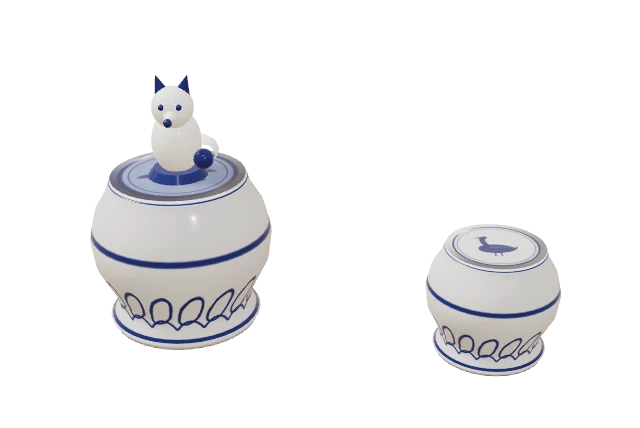
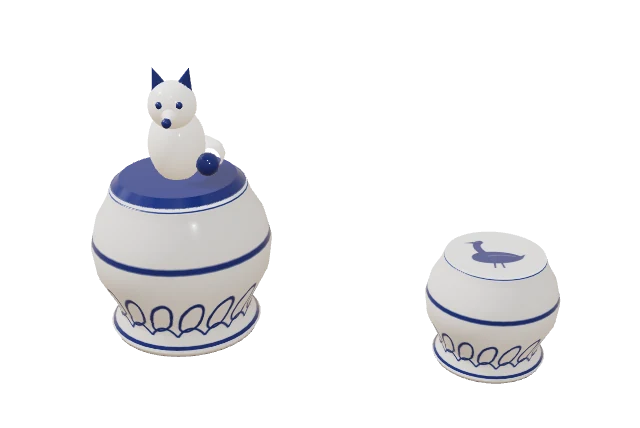
3D/2Dの駒をひとつの箱に（全ゲーム点検）、狐とガチョウ：残り手数の数字の色、デルフト駒の天面を見やすく
Claude-Session: https://claude.ai/code/session_01EiWRAZQof2qofnKntpRWhP

Changed region(s): [[0.6562, 0.5164, 0.875, 0.9112], [0.125, 0.4556, 0.4375, 0.8505], [0.1562, 0.1519, 0.4062, 0.5164]]

diff --git a/atlas/lazy.js b/atlas/lazy.js
@@ -5,7 +5,7 @@
      AtlasLazy.has3D(id) / hasPlay(id) / hasRules(id) — known before loading; AtlasLazy.loaded(id) */
 (function () {
 'use strict';
-const G = {"reversi": ["models/reversi.js?v=1", "games/reversi.js?v=57", "rules/reversi.js?v=14"], "shogi": ["models/shogi.js?v=102", "games/shogi-play.js?v=50", "games/shogi.js?v=18", "rules/shogi.js?v=21"], "chess": ["models/chess.js?v=23", "games/chess.js?v=23", "rules/chess.js?v=8"], "backgammon": ["models/backgammon.js?v=123", "games/backgammon.js?v=29", "rules/backgammon.js?v=11"], "gomoku": ["models/goban.js?v=17", "games/gomoku.js?v=19", "rules/gomoku.js?v=10"], "go": ["models/goban.js?v=17", "games/go.js?v=18", "rules/go.js?v=7"], "hex": ["models/goban.js?v=17", "models/hex.js?v=3", "games/hex.js?v=9", "rules/hex.js?v=7"], "tafl": ["games/tafl.js?v=20", "rules/tafl.js?v=8"], "xiangqi": ["models/xiangqi.js?v=8", "games/xiangqi.js?v=18", "rules/xiangqi.js?v=7"], "janggi": ["models/xiangqi.js?v=8", "models/janggi.js?v=3", "games/janggi.js?v=10", "rules/janggi.js?v=3"], "checkers": ["models/checkers.js?v=23", "games/checkers.js?v=17", "rules/checkers.js?v=11"], "ugolki": ["models/checkers.js?v=23", "models/ugolki.js?v=4", "games/ugolki.js?v=17", "rules/ugolki.js?v=11"], "morris": ["models/morris.js?v=9", "games/morris-pieces.js?v=5", "games/morris.js?v=16", "rules/morris.js?v=8"], "connect4": ["models/connect4.js?v=6", "games/connect4-tiles.js?v=3", "games/connect4.js?v=10", "rules/connect4.js?v=3"], "mancala": ["models/mancala.js?v=6", "games/mancala.js?v=16", "rules/mancala.js?v=5"], "dots": ["models/dots.js?v=5", "games/dots.js?v=15", "rules/dots.js?v=3"], "ur": ["models/ur-dice.js?v=2", "models/ur.js?v=5", "games/ur-kit.js?v=15", "games/ur.js?v=15", "rules/ur.js?v=18"], "fanorona": ["models/fanorona.js?v=4", "games/fanorona.js?v=9", "rules/fanorona.js?v=8"], "konane": ["models/konane.js?v=7", "games/konane.js?v=18", "rules/konane.js?v=7"], "latrunculi": ["models/latrunculi.js?v=1", "games/latrunculi.js?v=4", "rules/latrunculi.js?v=3"], "foxgeese": ["models/foxgeese.js?v=5", "games/foxgeese.js?v=17", "rules/foxgeese.js?v=13"], "amazons": ["models/amazons.js?v=7", "games/amazons.js?v=17", "rules/amazons.js?v=9"], "senet": ["models/ur-dice.js?v=2", "models/senet.js?v=10", "games/senet-kit.js?v=5", "games/senet.js?v=20", "rules/senet.js?v=10"], "agon": ["models/agon.js?v=4", "games/agon.js?v=16", "rules/agon.js?v=6"], "alquerque": ["models/alquerque.js?v=3", "games/fanorona.js?v=9", "rules/alquerque.js?v=6"], "ludo": ["../ludo/engine.js?v=4", "../ludo/house.js?v=7", "../ludo/board2d.js?v=7", "../ludo/board-art.js?v=3", "models/ludo.js?v=10", "games/ludo.js?v=30", "rules/ludo.js?v=4"], "carrom": ["../carrom/engine.js?v=8", "models/carrom.js?v=18", "games/carrom.js?v=46", "rules/carrom.js?v=9", "../shared/onlinesec.js?v=2l14as1sh1", "online3d.js?v=2"], "crokinole": ["../carrom/engine.js?v=8", "games/carrom.js?v=46", "../crokinole/engine.js?v=7", "models/crokinole.js?v=13", "games/crokinole.js?v=24", "rules/crokinole.js?v=5", "../shared/onlinesec.js?v=2l14as1sh1", "online3d.js?v=2"], "hockey": ["../hockey/engine.js?v=19", "models/hockey.js?v=8", "games/hockey.js?v=41", "rules/hockey.js?v=8"], "botao": ["../carrom/engine.js?v=8", "games/carrom.js?v=46", "../botao/engine.js?v=16", "models/botao.js?v=11", "games/botao-i18n.js?v=16", "games/botao.js?v=36", "rules/botao.js?v=10", "../shared/onlinesec.js?v=2l14as1sh1", "online3d.js?v=2"], "shanghai": ["games/shanghai-core.js?v=2", "games/shanghai-scenes.js?v=2", "games/shanghai-zodiac.js?v=6", "games/shanghai-i18n.js?v=17", "models/shanghai.js?v=19", "games/shanghai.js?v=44", "rules/shanghai-i18n.js?v=1", "rules/shanghai.js?v=1"], "patolli": ["models/patolli.js?v=1", "games/patolli-kit.js?v=2", "games/patolli.js?v=4", "rules/patolli.js?v=3"], "peg": ["../peg/engine.js?v=2", "../peg/i18n.js?v=11", "models/peg.js?v=23", "games/peg.js?v=16", "rules/peg.js?v=4"], "hitblow": ["../hitblow/engine.js?v=6", "models/hitblow.js?v=27", "games/hitblow.js?v=19", "rules/hitblow.js?v=4"]};
+const G = {"reversi": ["models/reversi.js?v=1", "games/reversi.js?v=57", "rules/reversi.js?v=14"], "shogi": ["models/shogi.js?v=102", "games/shogi-play.js?v=50", "games/shogi.js?v=18", "rules/shogi.js?v=21"], "chess": ["models/chess.js?v=23", "games/chess.js?v=23", "rules/chess.js?v=8"], "backgammon": ["models/backgammon.js?v=123", "games/backgammon.js?v=29", "rules/backgammon.js?v=11"], "gomoku": ["models/goban.js?v=17", "games/gomoku.js?v=19", "rules/gomoku.js?v=10"], "go": ["models/goban.js?v=17", "games/go.js?v=18", "rules/go.js?v=7"], "hex": ["models/goban.js?v=17", "models/hex.js?v=3", "games/hex.js?v=9", "rules/hex.js?v=7"], "tafl": ["games/tafl.js?v=20", "rules/tafl.js?v=8"], "xiangqi": ["models/xiangqi.js?v=8", "games/xiangqi.js?v=18", "rules/xiangqi.js?v=7"], "janggi": ["models/xiangqi.js?v=8", "models/janggi.js?v=3", "games/janggi.js?v=10", "rules/janggi.js?v=3"], "checkers": ["models/checkers.js?v=23", "games/checkers.js?v=17", "rules/checkers.js?v=11"], "ugolki": ["models/checkers.js?v=23", "models/ugolki.js?v=4", "games/ugolki.js?v=17", "rules/ugolki.js?v=11"], "morris": ["models/morris.js?v=9", "games/morris-pieces.js?v=5", "games/morris.js?v=16", "rules/morris.js?v=8"], "connect4": ["models/connect4.js?v=6", "games/connect4-tiles.js?v=3", "games/connect4.js?v=10", "rules/connect4.js?v=3"], "mancala": ["models/mancala.js?v=6", "games/mancala.js?v=16", "rules/mancala.js?v=5"], "dots": ["models/dots.js?v=5", "games/dots.js?v=15", "rules/dots.js?v=3"], "ur": ["models/ur-dice.js?v=2", "models/ur.js?v=5", "games/ur-kit.js?v=15", "games/ur.js?v=15", "rules/ur.js?v=18"], "fanorona": ["models/fanorona.js?v=4", "games/fanorona.js?v=9", "rules/fanorona.js?v=8"], "konane": ["models/konane.js?v=7", "games/konane.js?v=18", "rules/konane.js?v=7"], "latrunculi": ["models/latrunculi.js?v=1", "games/latrunculi.js?v=4", "rules/latrunculi.js?v=3"], "foxgeese": ["models/foxgeese.js?v=6", "games/foxgeese.js?v=17", "rules/foxgeese.js?v=13"], "amazons": ["models/amazons.js?v=7", "games/amazons.js?v=17", "rules/amazons.js?v=9"], "senet": ["models/ur-dice.js?v=2", "models/senet.js?v=10", "games/senet-kit.js?v=5", "games/senet.js?v=20", "rules/senet.js?v=10"], "agon": ["models/agon.js?v=4", "games/agon.js?v=16", "rules/agon.js?v=6"], "alquerque": ["models/alquerque.js?v=3", "games/fanorona.js?v=9", "rules/alquerque.js?v=6"], "ludo": ["../ludo/engine.js?v=4", "../ludo/house.js?v=7", "../ludo/board2d.js?v=7", "../ludo/board-art.js?v=3", "models/ludo.js?v=10", "games/ludo.js?v=30", "rules/ludo.js?v=4"], "carrom": ["../carrom/engine.js?v=8", "models/carrom.js?v=18", "games/carrom.js?v=46", "rules/carrom.js?v=9", "../shared/onlinesec.js?v=2l14as1sh1", "online3d.js?v=2"], "crokinole": ["../carrom/engine.js?v=8", "games/carrom.js?v=46", "../crokinole/engine.js?v=7", "models/crokinole.js?v=13", "games/crokinole.js?v=24", "rules/crokinole.js?v=5", "../shared/onlinesec.js?v=2l14as1sh1", "online3d.js?v=2"], "hockey": ["../hockey/engine.js?v=19", "models/hockey.js?v=8", "games/hockey.js?v=41", "rules/hockey.js?v=8"], "botao": ["../carrom/engine.js?v=8", "games/carrom.js?v=46", "../botao/engine.js?v=16", "models/botao.js?v=11", "games/botao-i18n.js?v=16", "games/botao.js?v=36", "rules/botao.js?v=10", "../shared/onlinesec.js?v=2l14as1sh1", "online3d.js?v=2"], "shanghai": ["games/shanghai-core.js?v=2", "games/shanghai-scenes.js?v=2", "games/shanghai-zodiac.js?v=6", "games/shanghai-i18n.js?v=17", "models/shanghai.js?v=19", "games/shanghai.js?v=44", "rules/shanghai-i18n.js?v=1", "rules/shanghai.js?v=1"], "patolli": ["models/patolli.js?v=1", "games/patolli-kit.js?v=2", "games/patolli.js?v=4", "rules/patolli.js?v=3"], "peg": ["../peg/engine.js?v=2", "../peg/i18n.js?v=11", "models/peg.js?v=23", "games/peg.js?v=16", "rules/peg.js?v=4"], "hitblow": ["../hitblow/engine.js?v=6", "models/hitblow.js?v=27", "games/hitblow.js?v=19", "rules/hitblow.js?v=4"]};
 const F = {"patolli": {"t3": true, "play": true, "rules": true}, "reversi": {"t3": true, "play": true, "rules": true}, "shogi": {"t3": true, "play": true, "rules": true}, "chess": {"t3": true, "play": true, "rules": true}, "backgammon": {"t3": true, "play": true, "rules": true}, "gomoku": {"t3": true, "play": true, "rules": true}, "go": {"t3": true, "play": true, "rules": true}, "hex": {"t3": true, "play": true, "rules": true}, "tafl": {"t3": true, "play": true, "rules": true}, "xiangqi": {"t3": true, "play": true, "rules": true}, "janggi": {"t3": true, "play": true, "rules": true}, "checkers": {"t3": true, "play": true, "rules": true}, "ugolki": {"t3": true, "play": true, "rules": true}, "morris": {"t3": true, "play": true, "rules": true}, "connect4": {"t3": true, "play": true, "rules": true}, "mancala": {"t3": true, "play": true, "rules": true}, "dots": {"t3": true, "play": true, "rules": true}, "ur": {"t3": true, "play": true, "rules": true}, "fanorona": {"t3": true, "play": true, "rules": true}, "konane": {"t3": true, "play": true, "rules": true}, "latrunculi": {"t3": true, "play": true, "rules": true}, "foxgeese": {"t3": true, "play": true, "rules": true}, "amazons": {"t3": true, "play": true, "rules": true}, "senet": {"t3": true, "play": true, "rules": true}, "agon": {"t3": true, "play": true, "rules": true}, "alquerque": {"t3": true, "play": true, "rules": true}, "ludo": {"t3": true, "play": true, "rules": true}, "carrom": {"t3": true, "play": true, "rules": true}, "crokinole": {"t3": true, "play": true, "rules": true}, "hockey": {"t3": true, "play": true, "rules": true}, "botao": {"t3": true, "play": true, "rules": true}, "peg": {"t3": true, "play": true, "rules": true}, "shanghai": {"t3": true, "play": true, "rules": true}, "hitblow": {"t3": true, "play": true, "rules": true}};
 const done = new Set(), loading = new Map(), ok = new Set();
 function load(src) {

diff --git a/atlas/skin/foxgeese.js b/atlas/skin/foxgeese.js
@@ -20,7 +20,7 @@
   /* ---------- page: the DOM board's pictures become invisible (taps and marks stay) ---------- */
   const st = document.createElement('style');
   st.textContent = `
-html.atlas-fox #fPieces{display:none!important}   /* 2Dの駒の欄は2D表示のときだけ（チェッカーと同じ。3Dの駒は共通部品が別の箱に出す） */
+html.atlas-fox #fPieces{display:none!important}   /* (the 2D 駒 field: shown again by common.js as the 駒 box with its 3D | 2D switch — .a32-pcown, 2026-11-19) */
 html.atlas-fox .frame{background:transparent!important;box-shadow:none!important;border:0!important}
 html.atlas-fox .frame::before,html.atlas-fox .frame::after,html.atlas-fox .board::after,html.atlas-fox .board::before{display:none!important}
 html.atlas-fox .board{background:none!important;box-shadow:none!important}
@@ -46,7 +46,8 @@ html.atlas-fox .pieces .hov::before,html.atlas-fox .pieces .hov::after,html.atla
 html.atlas-fox .pieces .hov.p1{background:radial-gradient(circle at 40% 35%,#5a6070,#1c2230 60%,#0b0d12)!important}
 html.atlas-fox .pieces .hov.p2{background:radial-gradient(circle at 40% 35%,#fff,#eef0ea 60%,#c4cbc4)!important}
 html.atlas-fox .reserve .rsv-plate{background:rgba(26,14,22,.84)!important;box-shadow:0 0 0 1px rgba(226,170,214,.45),0 2px 6px rgba(0,0,0,.35)!important;color:#f0d9e6!important}
-html.atlas-fox .reserve .rsv-plate .rsv-l b,html.atlas-fox .reserve .rsv-plate .rsv-w:not(.hot) b{color:#fff2dc!important}
+html.atlas-fox .reserve .rsv-plate .rsv-l b,html.atlas-fox .reserve .rsv-plate .rsv-w:not(.hot) b,html.atlas-fox .reserve .rsv-plate.rsv-q:not(.lo) b{color:#fff2dc!important}
+html.atlas-fox .reserve .rsv-plate.rsv-q.lo,html.atlas-fox .reserve .rsv-plate.rsv-q.lo b{color:#ff9a88!important}   /* (the quiet-move clock: the same light figures, red in the last 10 — 2026-11-19) */
 html.atlas-fox .reserve .rsv-plate .rsv-w:not(.hot){color:#f0d9e6!important;background:transparent!important}
 /* a game with clocks (rated / online): the two players one above the other — side by side the clock chip left no room for the names */
 html.atlas-skin.atlas-fox:not(.atlas-2d):not(.atlas-hex):not(.atlas-backgammon) body:not(#_) .card.players:not(:has(> .pl-info)):has(.clk:not(:empty)){grid-template-columns:minmax(0,1fr)!important;gap:6px!important}
@@ -186,6 +187,7 @@ html.atlas-skin.atlas-fox:not(.atlas-2d):not(.atlas-hex):not(.atlas-backgammon) 
     const go3 = () => { if (V && !V.is3d()) V.set(true); try { mirror(); } catch (e) {} };
     const R3 = AtlasSkin.rows3d && h ? AtlasSkin.rows3d({ id: 'foxgeese', host: h, is3, clear: row, board: go3, piece: go3, p3: { ja: '3D駒', en: '3D pieces', zh: '3D棋子', 'zh-TW': '3D棋子', ko: '3D 말', es: 'Piezas 3D', fr: 'Pièces 3D', pt: 'Peças 3D', de: '3D-Figuren', ru: '3D-фигуры', tr: '3D taşlar', id: 'Bidak 3D', hi: '3D मोहरे', ar: 'قطع ثلاثية الأبعاد' } }) : null;
     if (row && R3) row.addEventListener('click', e => { if (e.target.closest('button') && V) { V.set(false); setTimeout(() => R3.paint(), 0); } }, true);   // a 2D board: the 2D page
+    { const pr = document.getElementById('pcRow'); if (pr && R3) pr.addEventListener('click', e => { if (e.target.closest('button') && V) { V.set(false); setTimeout(() => R3.paint(), 0); } }, true); }   // a 2D piece set too (2026-11-19: the 駒 box has 3D | 2D now)
     if (R3 && typeof window.designPickers === 'function') { const od = window.designPickers; window.designPickers = function () { const r = od.apply(this, arguments); try { R3.paint(); } catch (e) {} return r; }; }
     addEventListener('storage', e => { if (e.key === 'atlas-foxgeese-look' || e.key === 'atlas-foxgeese-pc3') { try { mirror(); } catch (x) {} if (R3) R3.paint(); } });
   }

diff --git a/atlas/skin/common.js b/atlas/skin/common.js
@@ -842,18 +842,22 @@ html.atlas-skin #bdRow.a3v-row{display:grid}html.atlas-skin .a3v-row ~ .bd-note{
       P.b2 = () => [...bf.children].filter(e => e !== f3 && e.tagName !== 'LABEL' && !e.classList.contains('a32') && !e.classList.contains('dsg-now'));
       P.bt = sw(bf, m => { P.bm = m; apply(); });
       // the 3D pieces → the 駒 field
-      const pl = f3.querySelector('label.pc3l'), pr = f3.querySelector('.bdrow.pc3'), p2 = document.getElementById('segPieces') || document.getElementById('pcRow') || document.getElementById('segPcs'), pf = p2 && p2.closest('.field');
+      const pl = f3.querySelector('label.pc3l'), pr = f3.querySelector('.bdrow.pc3'), p2 = document.getElementById('segPieces') || document.getElementById('pcRow') || document.getElementById('segPcs') || document.getElementById('stRow'), pf = p2 && p2.closest('.field');
       if (pr) {
         // the 駒 field: the game's own (with its 2D pieces) when the full version shows it, else a new one with the 3D pieces alone
-        const own = pf && pf !== bf && (f3.dataset.pcown === '1' || getComputedStyle(pf).display !== 'none');   // (pcown: the skin says the game's 駒 field is shown — chess, whose field may be hidden while the dialog is closed)
+        // (2026-11-19 user: the 駒 box holds both, as the 盤 box — the game's own 駒 field whenever there is one, shown even where a skin
+        //  had hidden it in 3D (.a32-pcown); before, a hidden field meant a separate 「3D駒」 box beside the 2D one)
+        const own = pf && pf !== bf;
+        if (own) pf.classList.add('a32-pcown');   // (pcown: the skin says the game's 駒 field is shown — chess, whose field may be hidden while the dialog is closed)
         let host = own ? pf : null;
         if (!host) { host = document.createElement('div'); host.className = bf.className + ' a32-pcf'; host.removeAttribute('id'); if (bf.dataset.ng) host.dataset.ng = bf.dataset.ng; bf.after(host); }
         const box = document.createElement('div'); box.className = 'a32-pc3';
         if (pl) (own ? box : host).appendChild(pl);
         box.appendChild(pr); host.appendChild(box);
         const q1 = f3.querySelector.bind(f3), qa = f3.querySelectorAll.bind(f3);
-        f3.querySelector = sel => q1(sel) || host.querySelector(sel);
-        f3.querySelectorAll = sel => [...qa(sel), ...host.querySelectorAll(sel)];
+        const lk = own ? box : host;   // (where the moved 3D row is looked up: in the game's own 駒 field only its box — the field's own label must not be taken for #f3D's)
+        f3.querySelector = sel => q1(sel) || lk.querySelector(sel);
+        f3.querySelectorAll = sel => [...qa(sel), ...lk.querySelectorAll(sel)];
         P.pbox = box;
         if (own) { P.p2 = () => [...pf.children].filter(e => e !== box && e.tagName !== 'LABEL' && !e.classList.contains('a32') && !e.classList.contains('dsg-now')); P.pt = sw(pf, m => { P.pm = m; apply(); }); }
       }

diff --git a/reversi/index.html b/reversi/index.html
@@ -5931,13 +5931,13 @@ accRender();
 (function () {
   if (!/[?&]skin=atlas\b/.test(location.search)) return;
   document.documentElement.classList.add('atlas-skin');
-  const css = document.createElement('link'); css.rel = 'stylesheet'; css.href = '../atlas/skin/skin.css?v=92l14'; document.head.appendChild(css);
+  const css = document.createElement('link'); css.rel = 'stylesheet'; css.href = '../atlas/skin/skin.css?v=93l14'; document.head.appendChild(css);
   const f = document.createElement('link'); f.rel = 'stylesheet'; f.href = 'https://fonts.googleapis.com/css2?family=RocknRoll+One&family=Zen+Maru+Gothic:wght@500;700;900&family=Fredoka:wght@600;700&display=swap'; document.head.appendChild(f);
   const load = src => new Promise((res, rej) => { const s = document.createElement('script'); s.src = src; s.onload = res; s.onerror = rej; document.body.appendChild(s); });
   if (window.AtlasLoading) { AtlasLoading.show(); setTimeout(() => AtlasLoading.hide(), 12000); }   // safety net
   // three.js r186 trial (2026-11-13): ?three=186 loads the new version (+ the r128 compatibility layer); otherwise r128 as before
   const T186 = !/[?&]three=128\b/.test(location.search);   // (r186 by default since 2026-11-13; ?three=128 = the old version)
-  (T186 ? load('../atlas/vendor/three-r186.min.js?v=1').then(() => load('../atlas/vendor/three-compat.js?v=15')) : (/[?&]three=128\b/.test(location.search) ? load('https://cdnjs.cloudflare.com/ajax/libs/three.js/r128/three.min.js') : load('../atlas/vendor/three-r186.min.js?v=1').then(() => load('../atlas/vendor/three-compat.js?v=15')))).then(() => load('../atlas/img/tex/baked.js?v=3')).then(() => load('../atlas/table3d.js?v=184')).then(() => load('../atlas/tables3d.js?v=146')).then(() => load('../atlas/skin/common.js?v=113')).then(() => load('../atlas/models/reversi.js?v=1')).then(() => load('../atlas/skin/reversi.js?v=24l15'))
+  (T186 ? load('../atlas/vendor/three-r186.min.js?v=1').then(() => load('../atlas/vendor/three-compat.js?v=15')) : (/[?&]three=128\b/.test(location.search) ? load('https://cdnjs.cloudflare.com/ajax/libs/three.js/r128/three.min.js') : load('../atlas/vendor/three-r186.min.js?v=1').then(() => load('../atlas/vendor/three-compat.js?v=15')))).then(() => load('../atlas/img/tex/baked.js?v=3')).then(() => load('../atlas/table3d.js?v=184')).then(() => load('../atlas/tables3d.js?v=146')).then(() => load('../atlas/skin/common.js?v=114')).then(() => load('../atlas/models/reversi.js?v=1')).then(() => load('../atlas/skin/reversi.js?v=24l15'))
     .catch(() => { document.documentElement.classList.remove('atlas-skin'); if (window.AtlasLoading) AtlasLoading.hide(); });
 })();
 </script>

diff --git a/mancala/index.html b/mancala/index.html
@@ -1581,12 +1581,12 @@ html[data-sk=ocean] .seed{box-shadow:0 calc(var(--u) * .025) calc(var(--u) * .04
   if (!/[?&]skin=atlas\b/.test(location.search)) return;
   if (window.__ROTWRAP) { document.documentElement.classList.add('atlas-ready'); if (window.AtlasLoading) AtlasLoading.hide(); return; }   // phone landscape wrapper: the skin runs in the turned page inside
   document.documentElement.classList.add('atlas-skin');
-  const css = document.createElement('link'); css.rel = 'stylesheet'; css.href = '../atlas/skin/skin.css?v=92l14'; document.head.appendChild(css);
+  const css = document.createElement('link'); css.rel = 'stylesheet'; css.href = '../atlas/skin/skin.css?v=93l14'; document.head.appendChild(css);
   const css2 = document.createElement('link'); css2.rel = 'stylesheet'; css2.href = '../atlas/skin/mancala.css?v=19l14'; document.head.appendChild(css2);
   const f = document.createElement('link'); f.rel = 'stylesheet'; f.href = 'https://fonts.googleapis.com/css2?family=RocknRoll+One&family=Zen+Maru+Gothic:wght@500;700;900&family=Fredoka:wght@600;700&display=swap'; document.head.appendChild(f);
   const load = src => new Promise((res, rej) => { const s = document.createElement('script'); s.src = src; s.onload = res; s.onerror = rej; document.body.appendChild(s); });
   if (window.AtlasLoading) { AtlasLoading.show(); setTimeout(() => AtlasLoading.hide(), 12000); }   // safety net
-  (/[?&]three=128\b/.test(location.search) ? load('https://cdnjs.cloudflare.com/ajax/libs/three.js/r128/three.min.js') : load('../atlas/vendor/three-r186.min.js?v=1').then(() => load('../atlas/vendor/three-compat.js?v=15'))).then(() => load('../atlas/img/tex/baked.js?v=3')).then(() => load('../atlas/table3d.js?v=184')).then(() => load('../atlas/tables3d.js?v=146')).then(() => load('../atlas/skin/common.js?v=113')).then(() => load('../atlas/models/mancala.js?v=6l14')).then(() => load('../atlas/skin/mancala.js?v=11l14'))
+  (/[?&]three=128\b/.test(location.search) ? load('https://cdnjs.cloudflare.com/ajax/libs/three.js/r128/three.min.js') : load('../atlas/vendor/three-r186.min.js?v=1').then(() => load('../atlas/vendor/three-compat.js?v=15'))).then(() => load('../atlas/img/tex/baked.js?v=3')).then(() => load('../atlas/table3d.js?v=184')).then(() => load('../atlas/tables3d.js?v=146')).then(() => load('../atlas/skin/common.js?v=114')).then(() => load('../atlas/models/mancala.js?v=6l14')).then(() => load('../atlas/skin/mancala.js?v=11l14'))
     .catch(() => { document.documentElement.classList.remove('atlas-skin'); if (window.AtlasLoading) AtlasLoading.hide(); });
 })();
 </script>

diff --git a/dots/index.html b/dots/index.html
@@ -2327,12 +2327,12 @@ document.querySelector('#rsResume').onclick = () => { document.querySelector('#r
 (function () {
   if (!/[?&]skin=atlas\b/.test(location.search)) return;
   document.documentElement.classList.add('atlas-skin');
-  const css = document.createElement('link'); css.rel = 'stylesheet'; css.href = '../atlas/skin/skin.css?v=92l14'; document.head.appendChild(css);
+  const css = document.createElement('link'); css.rel = 'stylesheet'; css.href = '../atlas/skin/skin.css?v=93l14'; document.head.appendChild(css);
   const css2 = document.createElement('link'); css2.rel = 'stylesheet'; css2.href = '../atlas/skin/dots.css?v=2l14'; document.head.appendChild(css2);
   const f = document.createElement('link'); f.rel = 'stylesheet'; f.href = 'https://fonts.googleapis.com/css2?family=RocknRoll+One&family=Zen+Maru+Gothic:wght@500;700;900&family=Fredoka:wght@600;700&family=Kalam:wght@400;700&family=Zen+Kurenaido&family=Nanum+Pen+Script&family=Long+Cang&family=Aref+Ruqaa:wght@700&display=swap'; document.head.appendChild(f);   // (Kalam … Aref Ruqaa: the handwritten box initials and tally on the notebook page)
   const load = src => new Promise((res, rej) => { const s = document.createElement('script'); s.src = src; s.onload = res; s.onerror = rej; document.body.appendChild(s); });
   if (window.AtlasLoading) { AtlasLoading.show(); setTimeout(() => AtlasLoading.hide(), 12000); }   // safety net
-  (/[?&]three=128\b/.test(location.search) ? load('https://cdnjs.cloudflare.com/ajax/libs/three.js/r128/three.min.js') : load('../atlas/vendor/three-r186.min.js?v=1').then(() => load('../atlas/vendor/three-compat.js?v=15'))).then(() => load('../atlas/img/tex/baked.js?v=3')).then(() => load('../atlas/table3d.js?v=184')).then(() => load('../atlas/tables3d.js?v=146')).then(() => load('../atlas/skin/common.js?v=113')).then(() => load('../atlas/models/dots.js?v=5l15')).then(() => load('../atlas/skin/dots.js?v=8l15'))
+  (/[?&]three=128\b/.test(location.search) ? load('https://cdnjs.cloudflare.com/ajax/libs/three.js/r128/three.min.js') : load('../atlas/vendor/three-r186.min.js?v=1').then(() => load('../atlas/vendor/three-compat.js?v=15'))).then(() => load('../atlas/img/tex/baked.js?v=3')).then(() => load('../atlas/table3d.js?v=184')).then(() => load('../atlas/tables3d.js?v=146')).then(() => load('../atlas/skin/common.js?v=114')).then(() => load('../atlas/models/dots.js?v=5l15')).then(() => load('../atlas/skin/dots.js?v=8l15'))
     .catch(() => { document.documentElement.classList.remove('atlas-skin'); if (window.AtlasLoading) AtlasLoading.hide(); });
 })();
 </script>

diff --git a/atlas/models/foxgeese.js b/atlas/models/foxgeese.js
@@ -435,11 +435,11 @@
     const por = M('delftB', { map: delftTex(), color: '#ffffff', roughness: .18, clearcoat: 1, clearcoatRoughness: .08 });
     const prof = [V2(0, 0), V2(.22, 0), V2(.23, .02), V2(.2, .05), V2(.21, .1), V2(.26, .2), V2(.27, .28), V2(.25, .36), V2(.215, .42), V2(.205, .45), V2(.2, .462), V2(0, .465)].map(p => V2(p.x * s, p.y * s));
     g.add(mesh(G('dBell' + col, () => new TT.LatheGeometry(prof, seg(40))), por));
-    g.add(mesh(G('dCap' + col, () => { const q = new TT.CircleGeometry(.198 * s, seg(40)); q.rotateX(-Math.PI / 2); return q; }), M('delftC' + col, { map: picTex('pc-delft-' + (fox ? 'f' : 'g'), '#f4f6fa'), color: '#ffffff', roughness: .18, clearcoat: 1, clearcoatRoughness: .08 }), 0, .4655 * s + .001, 0));
+    g.add(mesh(G('dCap2' + col, () => { const q = new TT.CircleGeometry(.198 * s, seg(40)), UV = q.attributes.uv; for (let i = 0; i < UV.count; i++) UV.setXY(i, .5 + (UV.getX(i) - .5) * .74, .5 + (UV.getY(i) - .5) * .74); q.rotateX(-Math.PI / 2); return q; }) /* (the plate's motif filling the crown: easier to read from above, 2026-11-19 user) */, M('delftC' + col, { map: picTex('pc-delft-' + (fox ? 'f' : 'g'), '#f4f6fa'), color: '#ffffff', roughness: .18, clearcoat: 1, clearcoatRoughness: .08 }), 0, .4655 * s + .001, 0));
     if (fox) {   // the fox's lid has a knob: a little porcelain fox sitting on it, cobalt ears, tail tip and eyes
       const wh = M('delftW', { color: '#f6f8fc', roughness: .1, clearcoat: 1, clearcoatRoughness: .04, envMapIntensity: 1.4 }), bl = M('delftBl', { color: '#1d3b8a', roughness: .12, clearcoat: 1, clearcoatRoughness: .05 });
-      const k = new TT.Group(); k.position.y = .465 * s; g.add(k);
-      k.add(mesh(G('dkBase', () => new TT.CylinderGeometry(.07, .09, .025, seg(24))), bl, 0, .0125, 0));
+      const k = new TT.Group(); k.position.y = .465 * s; g.add(k); k.scale.setScalar(1.15);
+      k.add(mesh(G('dkBase2', () => new TT.CylinderGeometry(.15, .17, .02, seg(32))), bl, 0, .01, 0));   // (a cobalt crown under the fox: the fox's piece reads at once from above)
       const body = mesh(G('dkBody', () => new TT.SphereGeometry(.085, seg(24), seg(16))), wh, 0, .1, -.01); body.scale.set(.85, 1.15, .95); k.add(body);
       k.add(mesh(G('dkHead', () => new TT.SphereGeometry(.06, seg(22), seg(14))), wh, 0, .215, .025));
       k.add(mesh(G('dkSnout', () => { const q = new TT.ConeGeometry(.032, .085, seg(14)); q.rotateX(Math.PI / 2); return q; }), wh, 0, .205, .09));

diff --git a/ur/index.html b/ur/index.html
@@ -1026,11 +1026,11 @@ html:not([lang=ja]):not([lang=zh]):not([lang="zh-TW"]):not([lang=ko]) .result-bi
 (function () {
   if (!/[?&]skin=atlas\b/.test(location.search) || window.__ROTWRAP) return;
   document.documentElement.classList.add('atlas-skin');
-  const css = document.createElement('link'); css.rel = 'stylesheet'; css.href = '../atlas/skin/skin.css?v=92l14'; document.head.appendChild(css);
+  const css = document.createElement('link'); css.rel = 'stylesheet'; css.href = '../atlas/skin/skin.css?v=93l14'; document.head.appendChild(css);
   const f = document.createElement('link'); f.rel = 'stylesheet'; f.href = 'https://fonts.googleapis.com/css2?family=RocknRoll+One&family=Zen+Maru+Gothic:wght@500;700;900&family=Fredoka:wght@600;700&display=swap'; document.head.appendChild(f);
   const load = src => new Promise((res, rej) => { const s = document.createElement('script'); s.src = src; s.onload = res; s.onerror = rej; document.body.appendChild(s); });
   if (window.AtlasLoading) { AtlasLoading.show(); setTimeout(() => AtlasLoading.hide(), 12000); }   // safety net
-  (/[?&]three=128\b/.test(location.search) ? load('https://cdnjs.cloudflare.com/ajax/libs/three.js/r128/three.min.js') : load('../atlas/vendor/three-r186.min.js?v=1').then(() => load('../atlas/vendor/three-compat.js?v=15'))).then(() => load('../atlas/img/tex/baked.js?v=3')).then(() => load('../atlas/table3d.js?v=184')).then(() => load('../atlas/tables3d.js?v=146')).then(() => load('../atlas/skin/common.js?v=113')).then(() => load('../atlas/models/ur-dice.js?v=2l14')).then(() => load('../atlas/models/ur.js?v=5l14')).then(() => load('../atlas/skin/ur.js?v=15l15'))
+  (/[?&]three=128\b/.test(location.search) ? load('https://cdnjs.cloudflare.com/ajax/libs/three.js/r128/three.min.js') : load('../atlas/vendor/three-r186.min.js?v=1').then(() => load('../atlas/vendor/three-compat.js?v=15'))).then(() => load('../atlas/img/tex/baked.js?v=3')).then(() => load('../atlas/table3d.js?v=184')).then(() => load('../atlas/tables3d.js?v=146')).then(() => load('../atlas/skin/common.js?v=114')).then(() => load('../atlas/models/ur-dice.js?v=2l14')).then(() => load('../atlas/models/ur.js?v=5l14')).then(() => load('../atlas/skin/ur.js?v=15l15'))
     .catch(() => { const u = new URL(location.href); u.searchParams.delete('skin'); location.replace(u.href); });   // (the 3D files are missing: the plain 2D page)
 })();
 </script>

diff --git a/connect4/index.html b/connect4/index.html
@@ -3433,11 +3433,11 @@ document.addEventListener('keydown', e => {
 (function () {
   if (!/[?&]skin=atlas\b/.test(location.search)) return;
   document.documentElement.classList.add('atlas-skin');
-  const css = document.createElement('link'); css.rel = 'stylesheet'; css.href = '../atlas/skin/skin.css?v=92l14'; document.head.appendChild(css);
+  const css = document.createElement('link'); css.rel = 'stylesheet'; css.href = '../atlas/skin/skin.css?v=93l14'; document.head.appendChild(css);
   const f = document.createElement('link'); f.rel = 'stylesheet'; f.href = 'https://fonts.googleapis.com/css2?family=RocknRoll+One&family=Zen+Maru+Gothic:wght@500;700;900&family=Fredoka:wght@600;700&display=swap'; document.head.appendChild(f);
   const load = src => new Promise((res, rej) => { const s = document.createElement('script'); s.src = src; s.onload = res; s.onerror = rej; document.body.appendChild(s); });
   if (window.AtlasLoading) { AtlasLoading.show(); setTimeout(() => AtlasLoading.hide(), 12000); }   // safety net
-  (/[?&]three=128\b/.test(location.search) ? load('https://cdnjs.cloudflare.com/ajax/libs/three.js/r128/three.min.js') : load('../atlas/vendor/three-r186.min.js?v=1').then(() => load('../atlas/vendor/three-compat.js?v=15'))).then(() => load('../atlas/img/tex/baked.js?v=3')).then(() => load('../atlas/table3d.js?v=184')).then(() => load('../atlas/tables3d.js?v=146')).then(() => load('../atlas/skin/common.js?v=113')).then(() => load('../atlas/models/connect4.js?v=6l14')).then(() => load('../atlas/games/connect4-tiles.js?v=3l14')).then(() => load('../atlas/skin/connect4.js?v=7l14-aim'))
+  (/[?&]three=128\b/.test(location.search) ? load('https://cdnjs.cloudflare.com/ajax/libs/three.js/r128/three.min.js') : load('../atlas/vendor/three-r186.min.js?v=1').then(() => load('../atlas/vendor/three-compat.js?v=15'))).then(() => load('../atlas/img/tex/baked.js?v=3')).then(() => load('../atlas/table3d.js?v=184')).then(() => load('../atlas/tables3d.js?v=146')).then(() => load('../atlas/skin/common.js?v=114')).then(() => load('../atlas/models/connect4.js?v=6l14')).then(() => load('../atlas/games/connect4-tiles.js?v=3l14')).then(() => load('../atlas/skin/connect4.js?v=7l14-aim'))
     .catch(() => { document.documentElement.classList.remove('atlas-skin'); if (window.AtlasLoading) AtlasLoading.hide(); });
 })();
 </script>

diff --git a/morris/index.html b/morris/index.html
@@ -3980,11 +3980,11 @@ window.addEventListener('resize', () => renderFx());
 (function () {
   if (!/[?&]skin=atlas\b/.test(location.search)) return;
   document.documentElement.classList.add('atlas-skin');
-  const css = document.createElement('link'); css.rel = 'stylesheet'; css.href = '../atlas/skin/skin.css?v=92l14'; document.head.appendChild(css);
+  const css = document.createElement('link'); css.rel = 'stylesheet'; css.href = '../atlas/skin/skin.css?v=93l14'; document.head.appendChild(css);
   const f = document.createElement('link'); f.rel = 'stylesheet'; f.href = 'https://fonts.googleapis.com/css2?family=RocknRoll+One&family=Zen+Maru+Gothic:wght@500;700;900&family=Fredoka:wght@600;700&display=swap'; document.head.appendChild(f);
   const load = src => new Promise((res, rej) => { const s = document.createElement('script'); s.src = src; s.onload = res; s.onerror = rej; document.body.appendChild(s); });
   if (window.AtlasLoading) { AtlasLoading.show(); setTimeout(() => AtlasLoading.hide(), 12000); }   // safety net
-  (/[?&]three=128\b/.test(location.search) ? load('https://cdnjs.cloudflare.com/ajax/libs/three.js/r128/three.min.js') : load('../atlas/vendor/three-r186.min.js?v=1').then(() => load('../atlas/vendor/three-compat.js?v=15'))).then(() => load('../atlas/img/tex/baked.js?v=3')).then(() => load('../atlas/table3d.js?v=184')).then(() => load('../atlas/tables3d.js?v=146')).then(() => load('../atlas/skin/common.js?v=113')).then(() => load('../atlas/models/morris.js?v=9l14')).then(() => load('../atlas/games/morris-pieces.js?v=4l14')).then(() => load('../atlas/skin/morris.js?v=7l15'))
+  (/[?&]three=128\b/.test(location.search) ? load('https://cdnjs.cloudflare.com/ajax/libs/three.js/r128/three.min.js') : load('../atlas/vendor/three-r186.min.js?v=1').then(() => load('../atlas/vendor/three-compat.js?v=15'))).then(() => load('../atlas/img/tex/baked.js?v=3')).then(() => load('../atlas/table3d.js?v=184')).then(() => load('../atlas/tables3d.js?v=146')).then(() => load('../atlas/skin/common.js?v=114')).then(() => load('../atlas/models/morris.js?v=9l14')).then(() => load('../atlas/games/morris-pieces.js?v=4l14')).then(() => load('../atlas/skin/morris.js?v=7l15'))
     .catch(() => { document.documentElement.classList.remove('atlas-skin'); if (window.AtlasLoading) AtlasLoading.hide(); });
 })();
 </script>

diff --git a/senet/index.html b/senet/index.html
@@ -1027,11 +1027,11 @@ html:not([lang=ja]):not([lang=zh]):not([lang=zh-TW]):not([lang=ko]) .result-big{
 (function () {
   if (!/[?&]skin=atlas\b/.test(location.search) || window.__ROTWRAP) return;
   document.documentElement.classList.add('atlas-skin');
-  const css = document.createElement('link'); css.rel = 'stylesheet'; css.href = '../atlas/skin/skin.css?v=92l14'; document.head.appendChild(css);
+  const css = document.createElement('link'); css.rel = 'stylesheet'; css.href = '../atlas/skin/skin.css?v=93l14'; document.head.appendChild(css);
   const f = document.createElement('link'); f.rel = 'stylesheet'; f.href = 'https://fonts.googleapis.com/css2?family=RocknRoll+One&family=Zen+Maru+Gothic:wght@500;700;900&family=Fredoka:wght@600;700&display=swap'; document.head.appendChild(f);
   const load = src => new Promise((res, rej) => { const s = document.createElement('script'); s.src = src; s.onload = res; s.onerror = rej; document.body.appendChild(s); });
   if (window.AtlasLoading) { AtlasLoading.show(); setTimeout(() => AtlasLoading.hide(), 12000); }   // safety net
-  (/[?&]three=128\b/.test(location.search) ? load('https://cdnjs.cloudflare.com/ajax/libs/three.js/r128/three.min.js') : load('../atlas/vendor/three-r186.min.js?v=1').then(() => load('../atlas/vendor/three-compat.js?v=15'))).then(() => load('../atlas/img/tex/baked.js?v=3')).then(() => load('../atlas/table3d.js?v=184')).then(() => load('../atlas/tables3d.js?v=146')).then(() => load('../atlas/skin/common.js?v=113')).then(() => load('../atlas/models/senet.js?v=10l14')).then(() => load('../atlas/skin/senet.js?v=11l15'))
+  (/[?&]three=128\b/.test(location.search) ? load('https://cdnjs.cloudflare.com/ajax/libs/three.js/r128/three.min.js') : load('../atlas/vendor/three-r186.min.js?v=1').then(() => load('../atlas/vendor/three-compat.js?v=15'))).then(() => load('../atlas/img/tex/baked.js?v=3')).then(() => load('../atlas/table3d.js?v=184')).then(() => load('../atlas/tables3d.js?v=146')).then(() => load('../atlas/skin/common.js?v=114')).then(() => load('../atlas/models/senet.js?v=10l14')).then(() => load('../atlas/skin/senet.js?v=11l15'))
     .catch(() => { const u = new URL(location.href); u.searchParams.delete('skin'); location.replace(u.href); });   // (the 3D files are missing: the plain 2D page)
 })();
 </script>

diff --git a/patolli/index.html b/patolli/index.html
@@ -1000,11 +1000,11 @@ html.ngt-land #newOverlay .modal.ngt-on > .ng-credit{max-width:calc(100% - 390px
 (function () {
   if (!/[?&]skin=atlas\b/.test(location.search)) return;
   document.documentElement.classList.add('atlas-skin');
-  const css = document.createElement('link'); css.rel = 'stylesheet'; css.href = '../atlas/skin/skin.css?v=92l14'; document.head.appendChild(css);
+  const css = document.createElement('link'); css.rel = 'stylesheet'; css.href = '../atlas/skin/skin.css?v=93l14'; document.head.appendChild(css);
   const f = document.createElement('link'); f.rel = 'stylesheet'; f.href = 'https://fonts.googleapis.com/css2?family=RocknRoll+One&family=Zen+Maru+Gothic:wght@500;700;900&family=Fredoka:wght@600;700&display=swap'; document.head.appendChild(f);
   const load = src => new Promise((res, rej) => { const s = document.createElement('script'); s.src = src; s.onload = res; s.onerror = rej; document.body.appendChild(s); });
   if (window.AtlasLoading) { AtlasLoading.show(); setTimeout(() => AtlasLoading.hide(), 12000); }   // 念のため
-  (/[?&]three=128\b/.test(location.search) ? load('https://cdnjs.cloudflare.com/ajax/libs/three.js/r128/three.min.js') : load('../atlas/vendor/three-r186.min.js?v=1').then(() => load('../atlas/vendor/three-compat.js?v=15'))).then(() => load('../atlas/img/tex/baked.js?v=3')).then(() => load('../atlas/table3d.js?v=184')).then(() => load('../atlas/tables3d.js?v=146')).then(() => load('../atlas/skin/common.js?v=113')).then(() => load('../atlas/models/patolli.js?v=1')).then(() => load('../atlas/skin/patolli.js?v=2'))
+  (/[?&]three=128\b/.test(location.search) ? load('https://cdnjs.cloudflare.com/ajax/libs/three.js/r128/three.min.js') : load('../atlas/vendor/three-r186.min.js?v=1').then(() => load('../atlas/vendor/three-compat.js?v=15'))).then(() => load('../atlas/img/tex/baked.js?v=3')).then(() => load('../atlas/table3d.js?v=184')).then(() => load('../atlas/tables3d.js?v=146')).then(() => load('../atlas/skin/common.js?v=114')).then(() => load('../atlas/models/patolli.js?v=1')).then(() => load('../atlas/skin/patolli.js?v=2'))
     .catch(() => { document.documentElement.classList.remove('atlas-skin'); if (window.AtlasLoading) AtlasLoading.hide(); });   // 3Dのファイルが読めないとき：2Dのまま
 })();
 </script>
